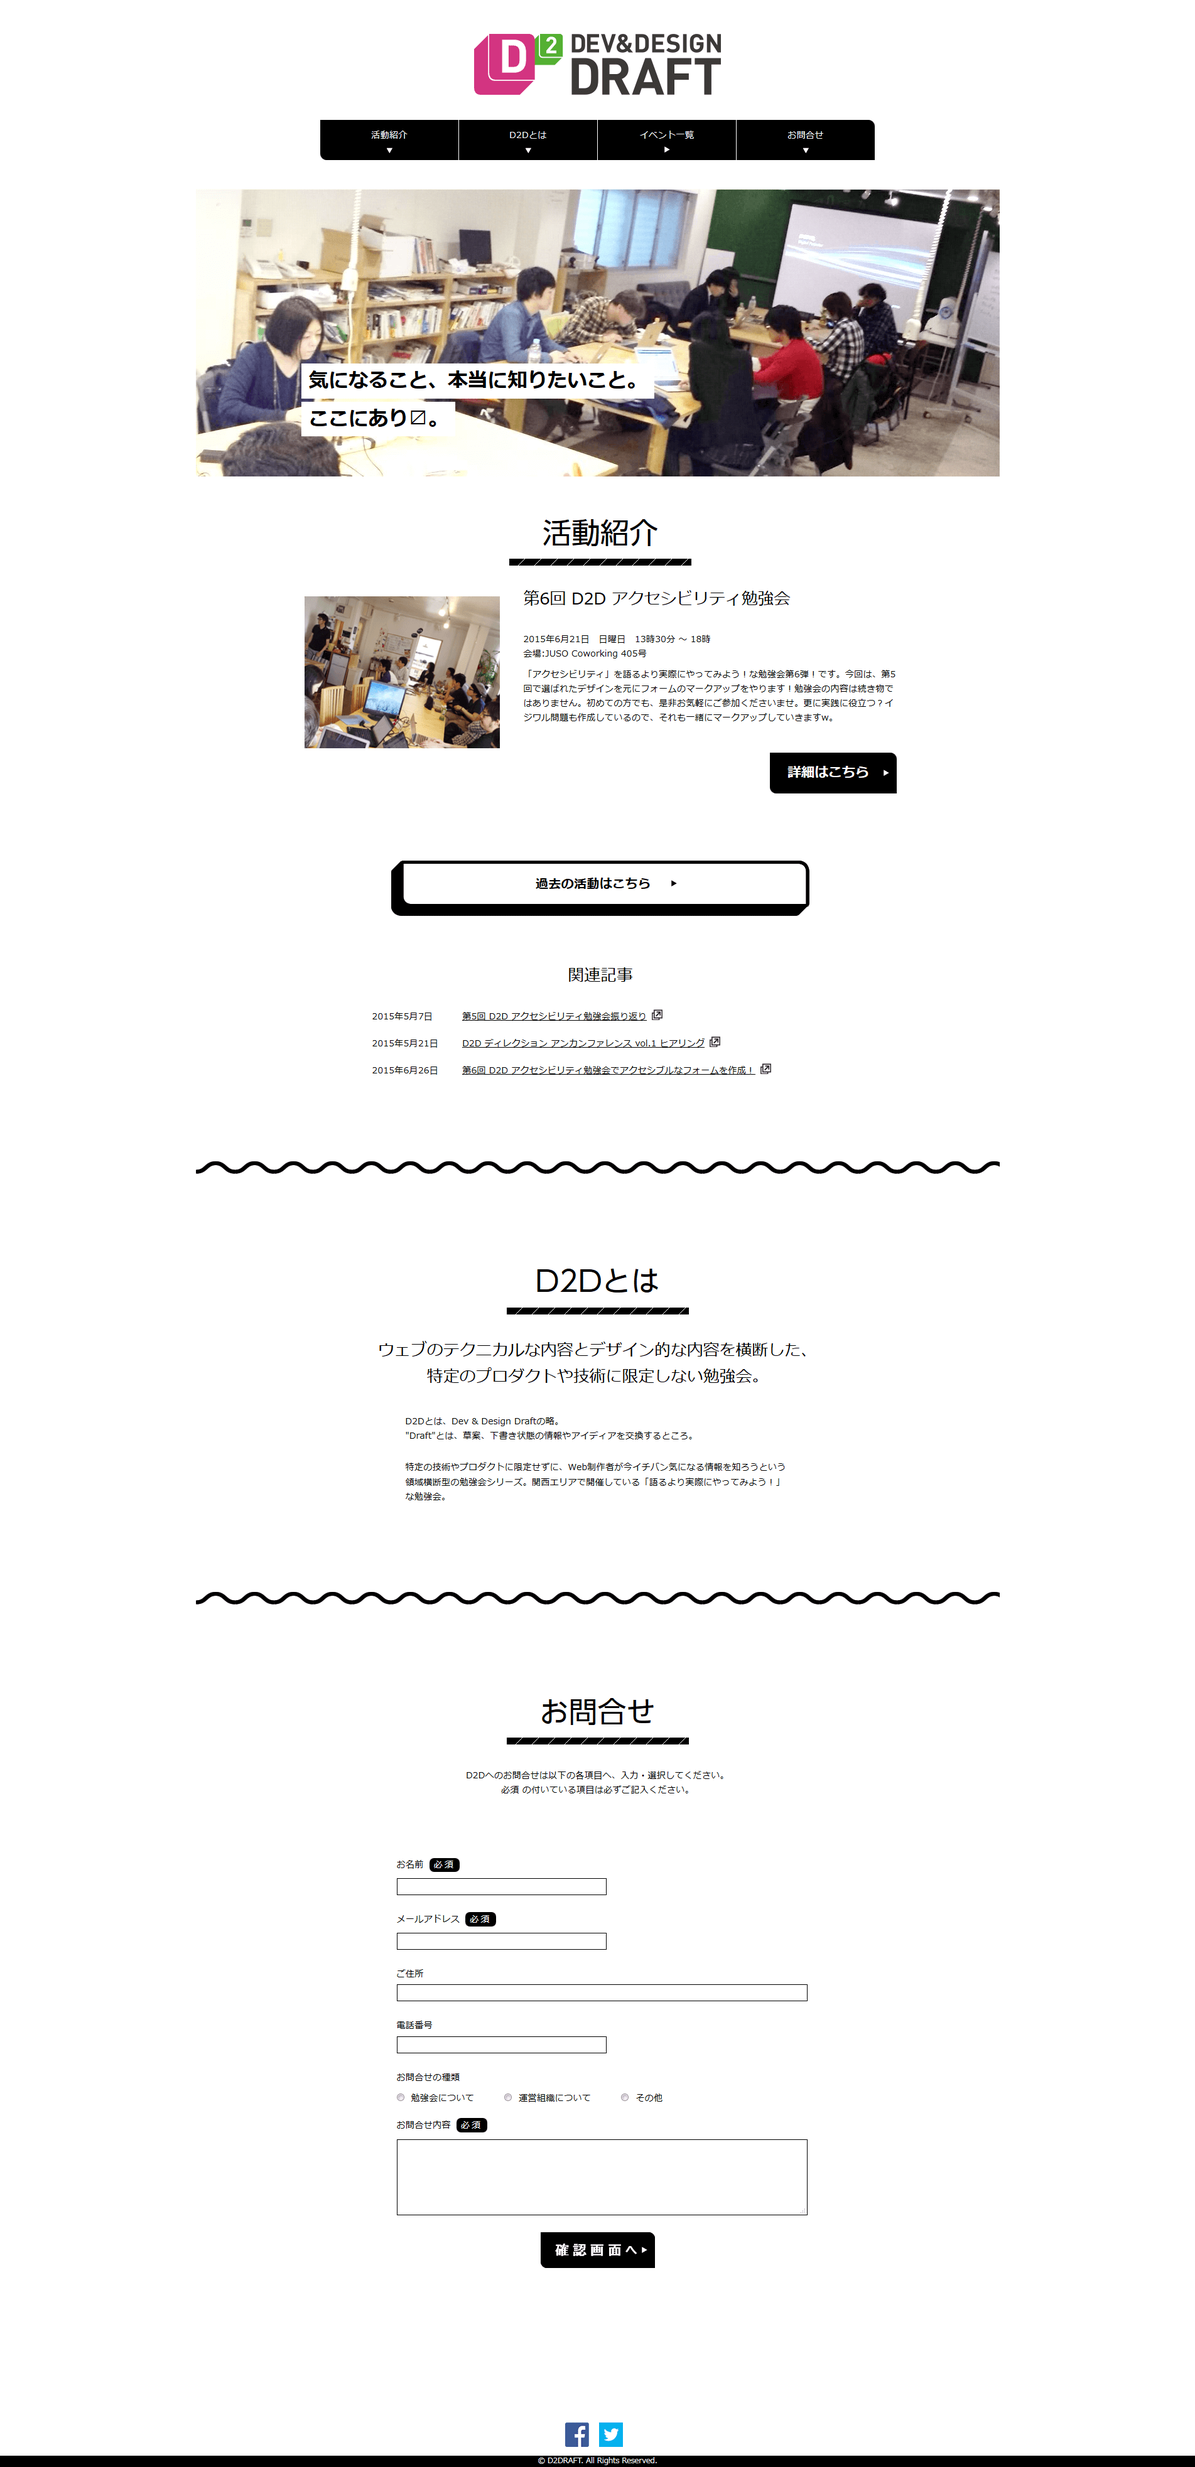
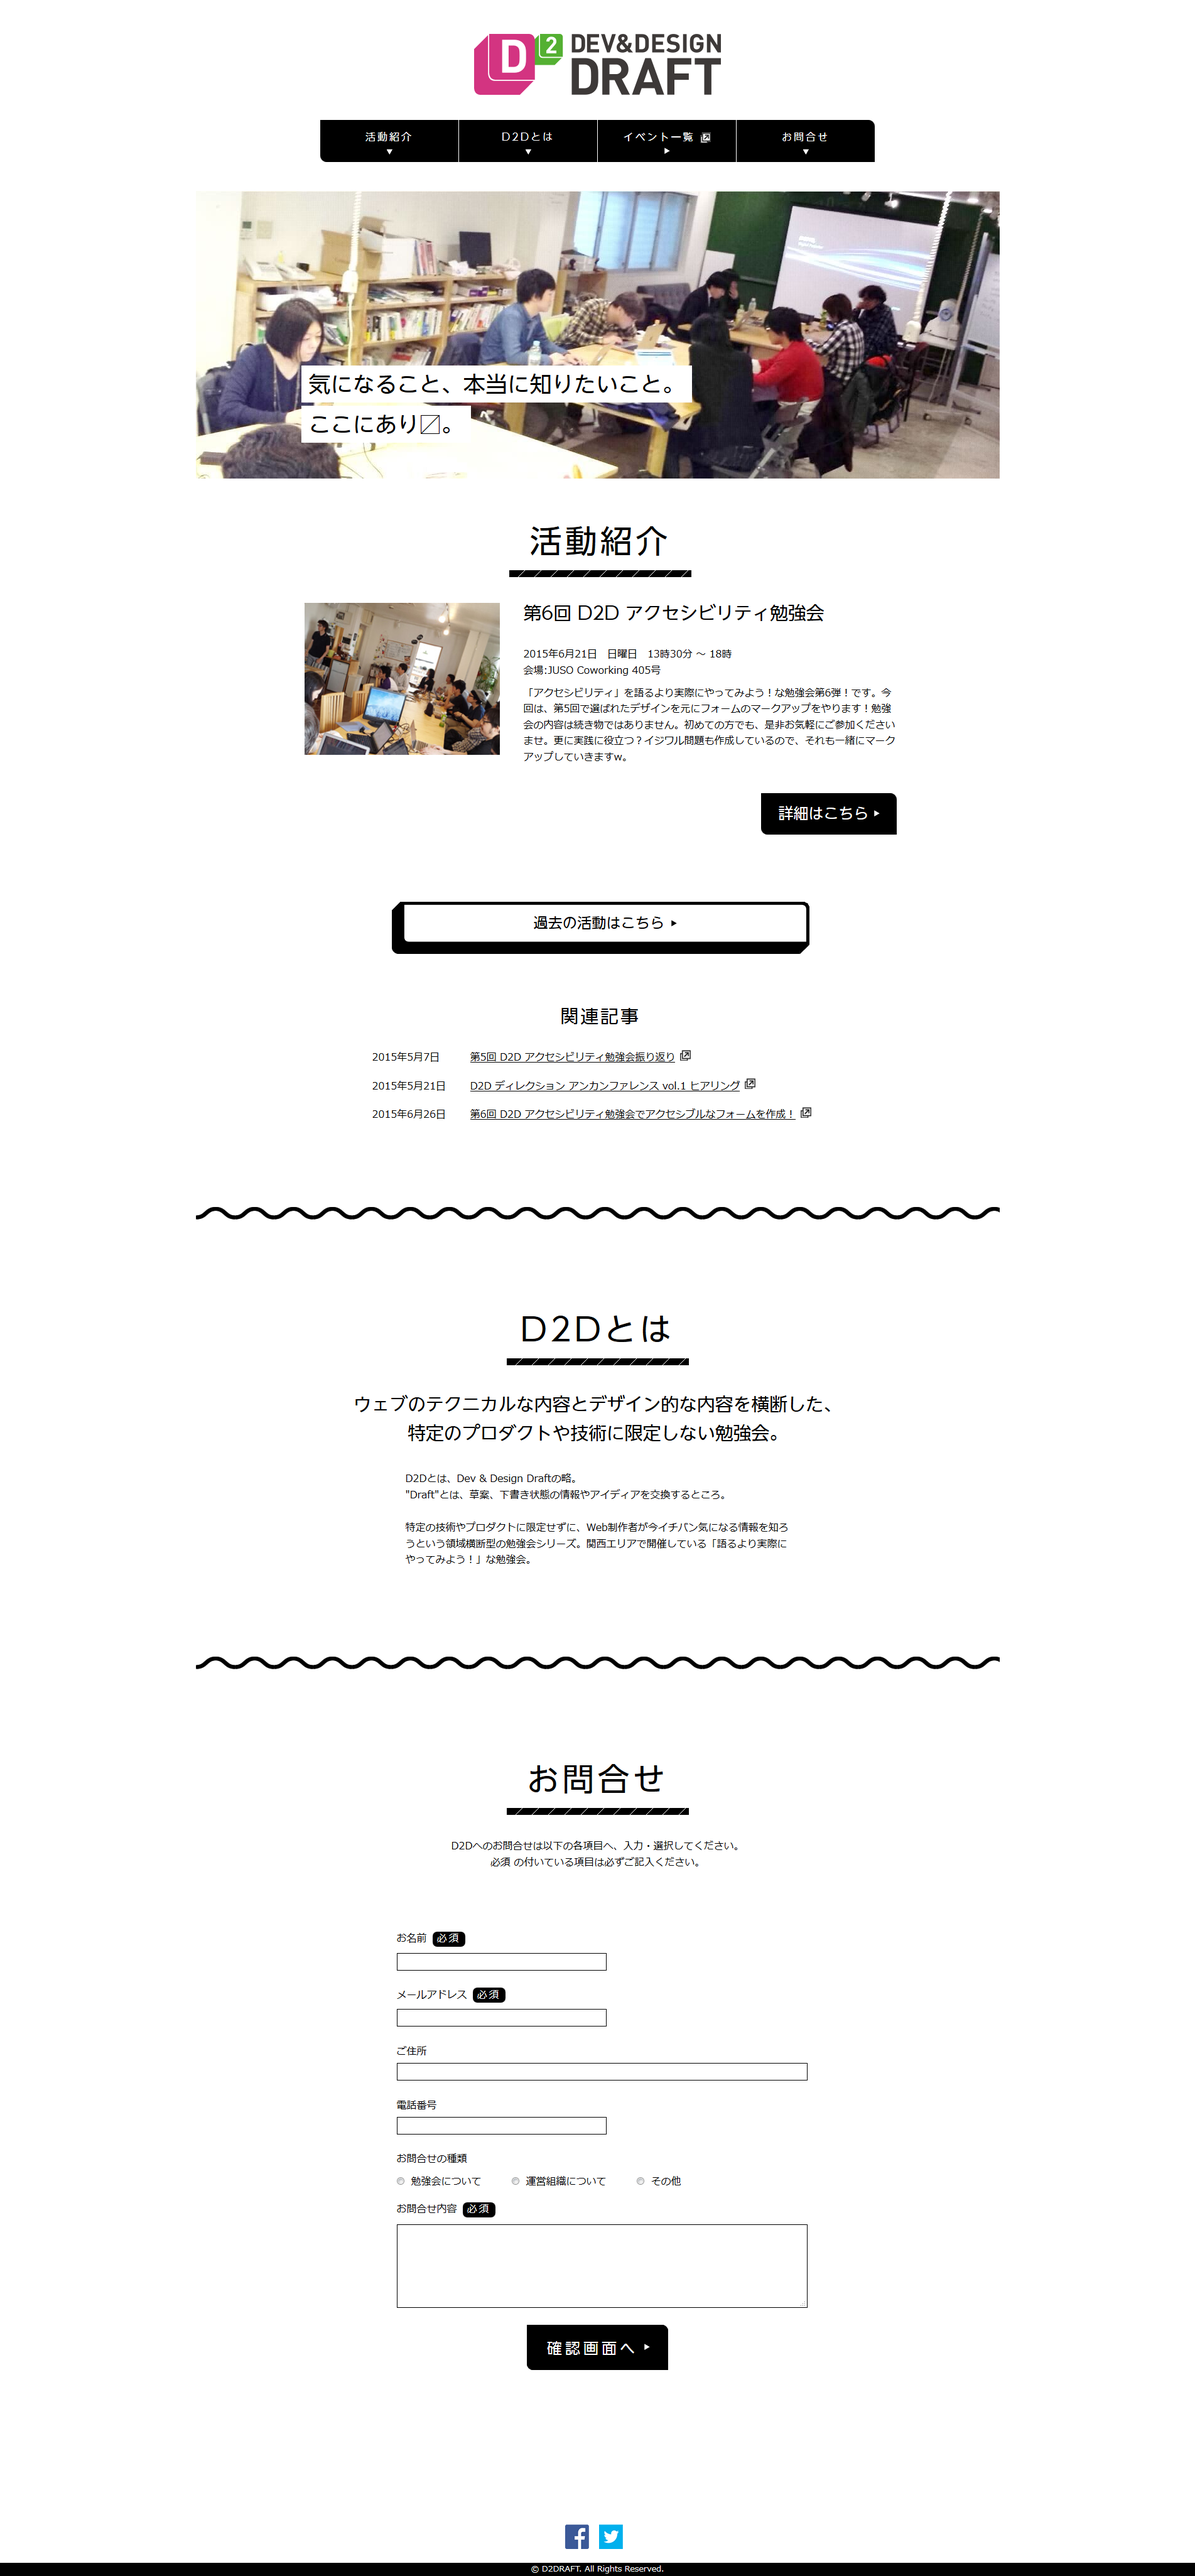
デザイン的修正を行いました。

diff --git a/style.css b/style.css
@@ -25,7 +25,8 @@ a:link, a:visited {
 }
 
 a:hover, a:focus {
-	background: #e3f5db;
+	background: #54b032;
+	color: #ffffff;
 }
 
 input, textarea {
@@ -107,6 +108,7 @@ nav ul li a:link, nav ul li a:visited {
 	background: #000000 url("img/arrow_under.gif") no-repeat 50% 80%;
 	text-decoration: none;
 	color: #ffffff;
+	letter-spacing: 3px;
 }
 
 nav ul li.nav_external a:link, nav ul li.nav_external a:visited {
@@ -132,6 +134,10 @@ nav ul li:first-child a {
 nav ul li:last-child a {
 	margin-right: 0;
 	border-top-right-radius: 10px;
+}
+
+nav ul li.nav_external img {
+	vertical-align: middle;
 }
 
 figure {
@@ -197,6 +203,7 @@ h2 {
 	text-align: center;
 	font-size: 320%;
 	font-weight: 100;
+	letter-spacing: 5px;
 }
 
 h3 {
@@ -238,7 +245,7 @@ form {
 	margin-top: 34px;
 	margin-bottom: 97px;
 	padding: 15px 44px 15px 28px;
-	background: #000000 url("img/arrow_right.gif") no-repeat 94% 50%;
+	background: #000000 url("img/arrow_right.gif") no-repeat 87% 50%;
 	border-top-right-radius: 10px;
 	border-bottom-left-radius: 10px;
 	text-decoration: none;
@@ -248,7 +255,7 @@ form {
 }
 
 .more a:hover, .more a:focus {
-	background: #4d4d4d url("img/arrow_right.gif") no-repeat 94% 50%;
+	background: #4d4d4d url("img/arrow_right.gif") no-repeat 87% 50%;
 }
 
 .more a:focus {
@@ -258,34 +265,39 @@ form {
 .concretely {
 	clear: both;
 	margin: 57px auto 75px;
-	padding-top: 24px;
-	width: 666px;
-	background: url("img/bg_concretely_t.png") no-repeat top left;
-	font-size: 120%;
 	font-weight: bold;
-}
-
-.concretely:hover, .concretely:focus {
-	background: url("img/bg_concretely_t_h.png") no-repeat top left;
 }
 
 .concretely a {
 	display: block;
-	padding: 0 230px 38px;
-	width: 667px;
-	background: url("img/bg_concretely_b.png") no-repeat bottom left;
+	margin: 0 auto;
+	padding-top: 13px;
+	width: 665px;
+	background: url("img/bg_concretely_t.png") no-repeat top left;
 	line-height: 1.3;
 	text-decoration: none;
-	font-size: 118%;
+	font-size: 145%;
 	color: #000000;
 }
 
 .concretely a:hover, .concretely a:focus {
+	background: url("img/bg_concretely_t_h.png") no-repeat top left;
+}
+
+.concretely span {
+	display: block;
+	padding: 5px 226px 35px;
+	width: 665px;
+	background: url("img/bg_concretely_b.png") no-repeat bottom left;
+}
+
+.concretely a:hover span, .concretely a:focus span {
 	background: url("img/bg_concretely_b_h.png") no-repeat bottom left;
 }
 
 .centered h3 {
 	text-align: center;
+	letter-spacing: 3px;
 }
 
 dl {
@@ -357,9 +369,9 @@ textarea {
 input[type='submit'] {
 	display: block;
 	margin: 0 auto;
-	padding: 15px 19px;
+	padding: 15px 44px 15px 28px;
 	width: auto;
-	background: #000000 url("img/arrow_right.gif") no-repeat 94% 50%;
+	background: #000000 url("img/arrow_right.gif") no-repeat 87% 50%;
 	border-top-right-radius: 10px;
 	border-bottom-left-radius: 10px;
 	color: #ffffff;
@@ -370,7 +382,7 @@ input[type='submit'] {
 }
 
 input[type='submit']:hover, input[type='submit']:focus {
-	background: #4d4d4d url("img/arrow_right.gif") no-repeat 94% 50%;
+	background: #4d4d4d url("img/arrow_right.gif") no-repeat 87% 50%;
 	outline: 1px dotted #000000;
 	box-shadow: 0 2px 2px rgba(0, 0, 0, 0.4) inset, 0 0 8px rgba(67, 67, 71, 0.6);
 }
@@ -383,6 +395,10 @@ footer {
 footer li {
 	margin-right:11px;
 	margin-bottom: 14px;
+}
+
+footer img {
+	display: block;
 }
 
 footer .fb a:hover img, footer .tt a:hover img, footer .fb a:focus img, footer .tt a:focus img {
@@ -490,22 +506,23 @@ footer small {
 		width: 290px;
 	}
 
-	.concretely {
+	 .concretely a {
+		padding-top: 18px; 
 		width: 280px;
 		background: url("img/bg_concretely_t_s.png") no-repeat top left;
 	}
 
-	 .concretely a {
-		padding: 0 22px 28px; 
+	.concretely a:hover, .concretely a:focus {
+		background: url("img/bg_concretely_t_s_h.png") no-repeat top left;
+	}
+
+	.concretely span {
+		padding: 0 22px 28px;
 		width: 280px;
 		background: url("img/bg_concretely_b_s.png") no-repeat bottom left;
 	}
 
-	.concretely:hover, .concretely:focus {
-		background: url("img/bg_concretely_t_s_h.png") no-repeat top left;
-	}
-
-	 .concretely a:hover, .concretely a:focus {
+	 .concretely a:hover span, .concretely a:focus span {
 		background: url("img/bg_concretely_b_s_h.png") no-repeat bottom left;
 	}
 

diff --git a/index.html b/index.html
@@ -31,7 +31,7 @@
     <header role="banner">
       <h1 id="logo"><a href="/"><img src="img/logo.png" alt="D2D(Dev&amp;Design Draft)" width="394" height="97"></a></h1>
       <nav role="navigation">
-        <ul><li><a href="#activity">活動紹介</a></li><li><a href="#about">D2Dとは</a></li><li class="nav_external"><a href="https://d2draft.doorkeeper.jp/events#upcoming-events" title="イベント一覧サイト">イベント一覧</a></li><li><a href="#contact">お問合せ</a></li></ul>
+        <ul><li><a href="#activity">活動紹介</a></li><li><a href="#about">D2Dとは</a></li><li class="nav_external"><a href="https://d2draft.doorkeeper.jp/events#upcoming-events" title="イベント一覧サイト">イベント一覧<img class="externallink" alt="D2DRAFTイベント一覧サイト" src="img/icon_external.png"></a></li><li><a href="#contact">お問合せ</a></li></ul>
       </nav>
     </header>
     <figure>
@@ -49,7 +49,7 @@
           <p>「アクセシビリティ」を語るより実際にやってみよう！な勉強会第6弾！です。今回は、第5回で選ばれたデザインを元にフォームのマークアップをやります！勉強会の内容は続き物ではありません。初めての方でも、是非お気軽にご参加くださいませ。更に実践に役立つ？イジワル問題も作成しているので、それも一緒にマークアップしていきますw。</p>
           <p class="more"><a href="https://d2draft.doorkeeper.jp/events/25495">詳細はこちら</a></p>
         </div>
-          <p class="concretely"><a href="https://d2draft.doorkeeper.jp/events#past-events">過去の活動はこちら</a></p>
+          <p class="concretely"><a href="https://d2draft.doorkeeper.jp/events#past-events"><span>過去の活動はこちら</span></a></p>
         <div class="centered">
         <h3>関連記事</h3>
           <dl>
